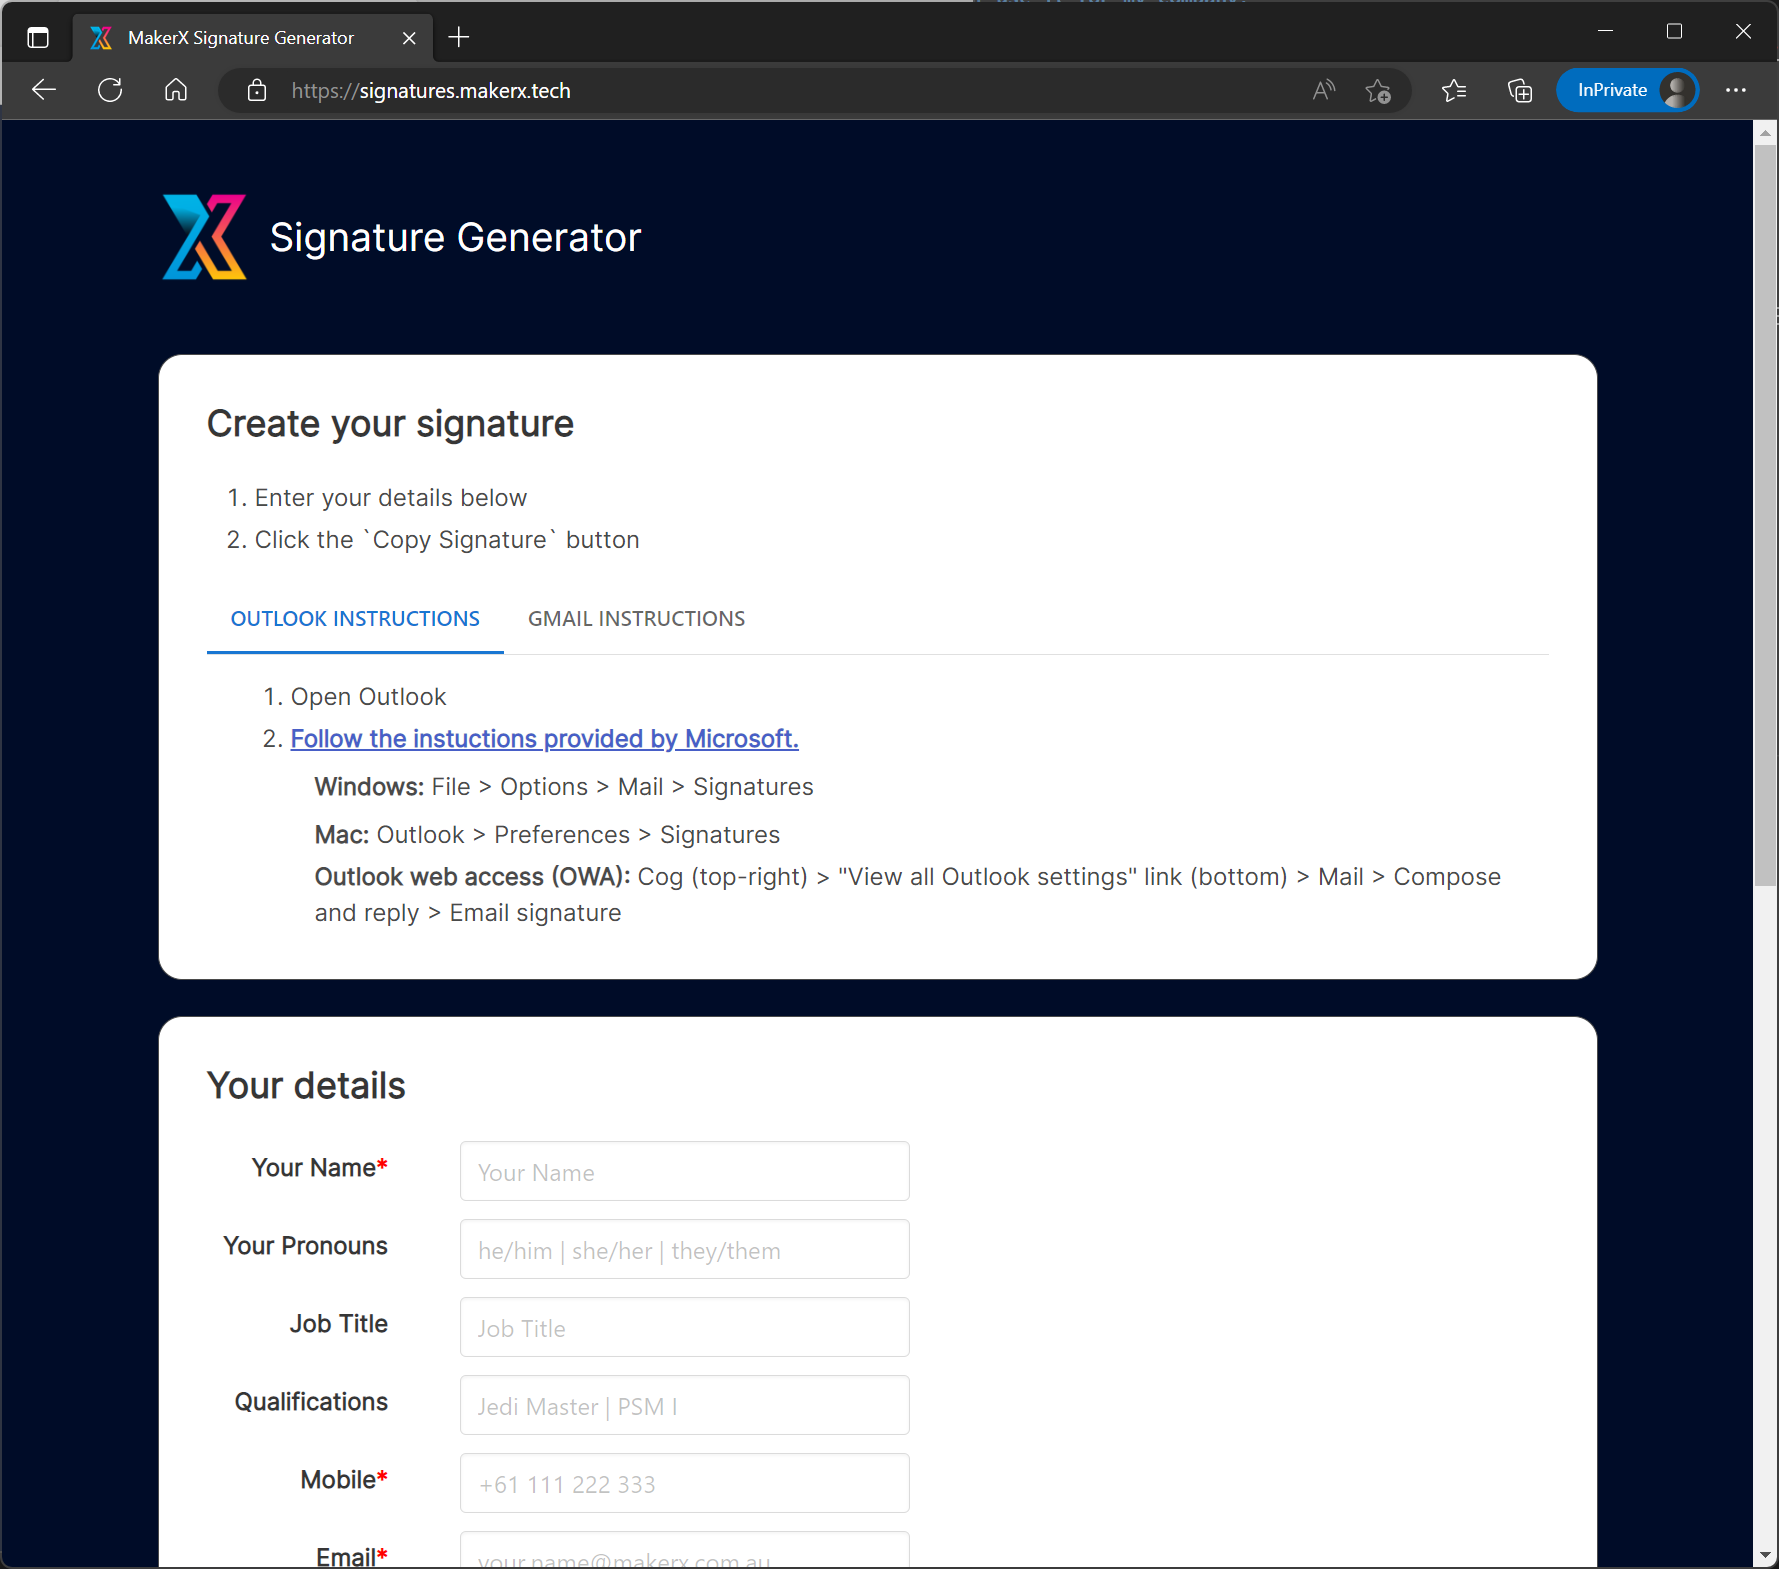
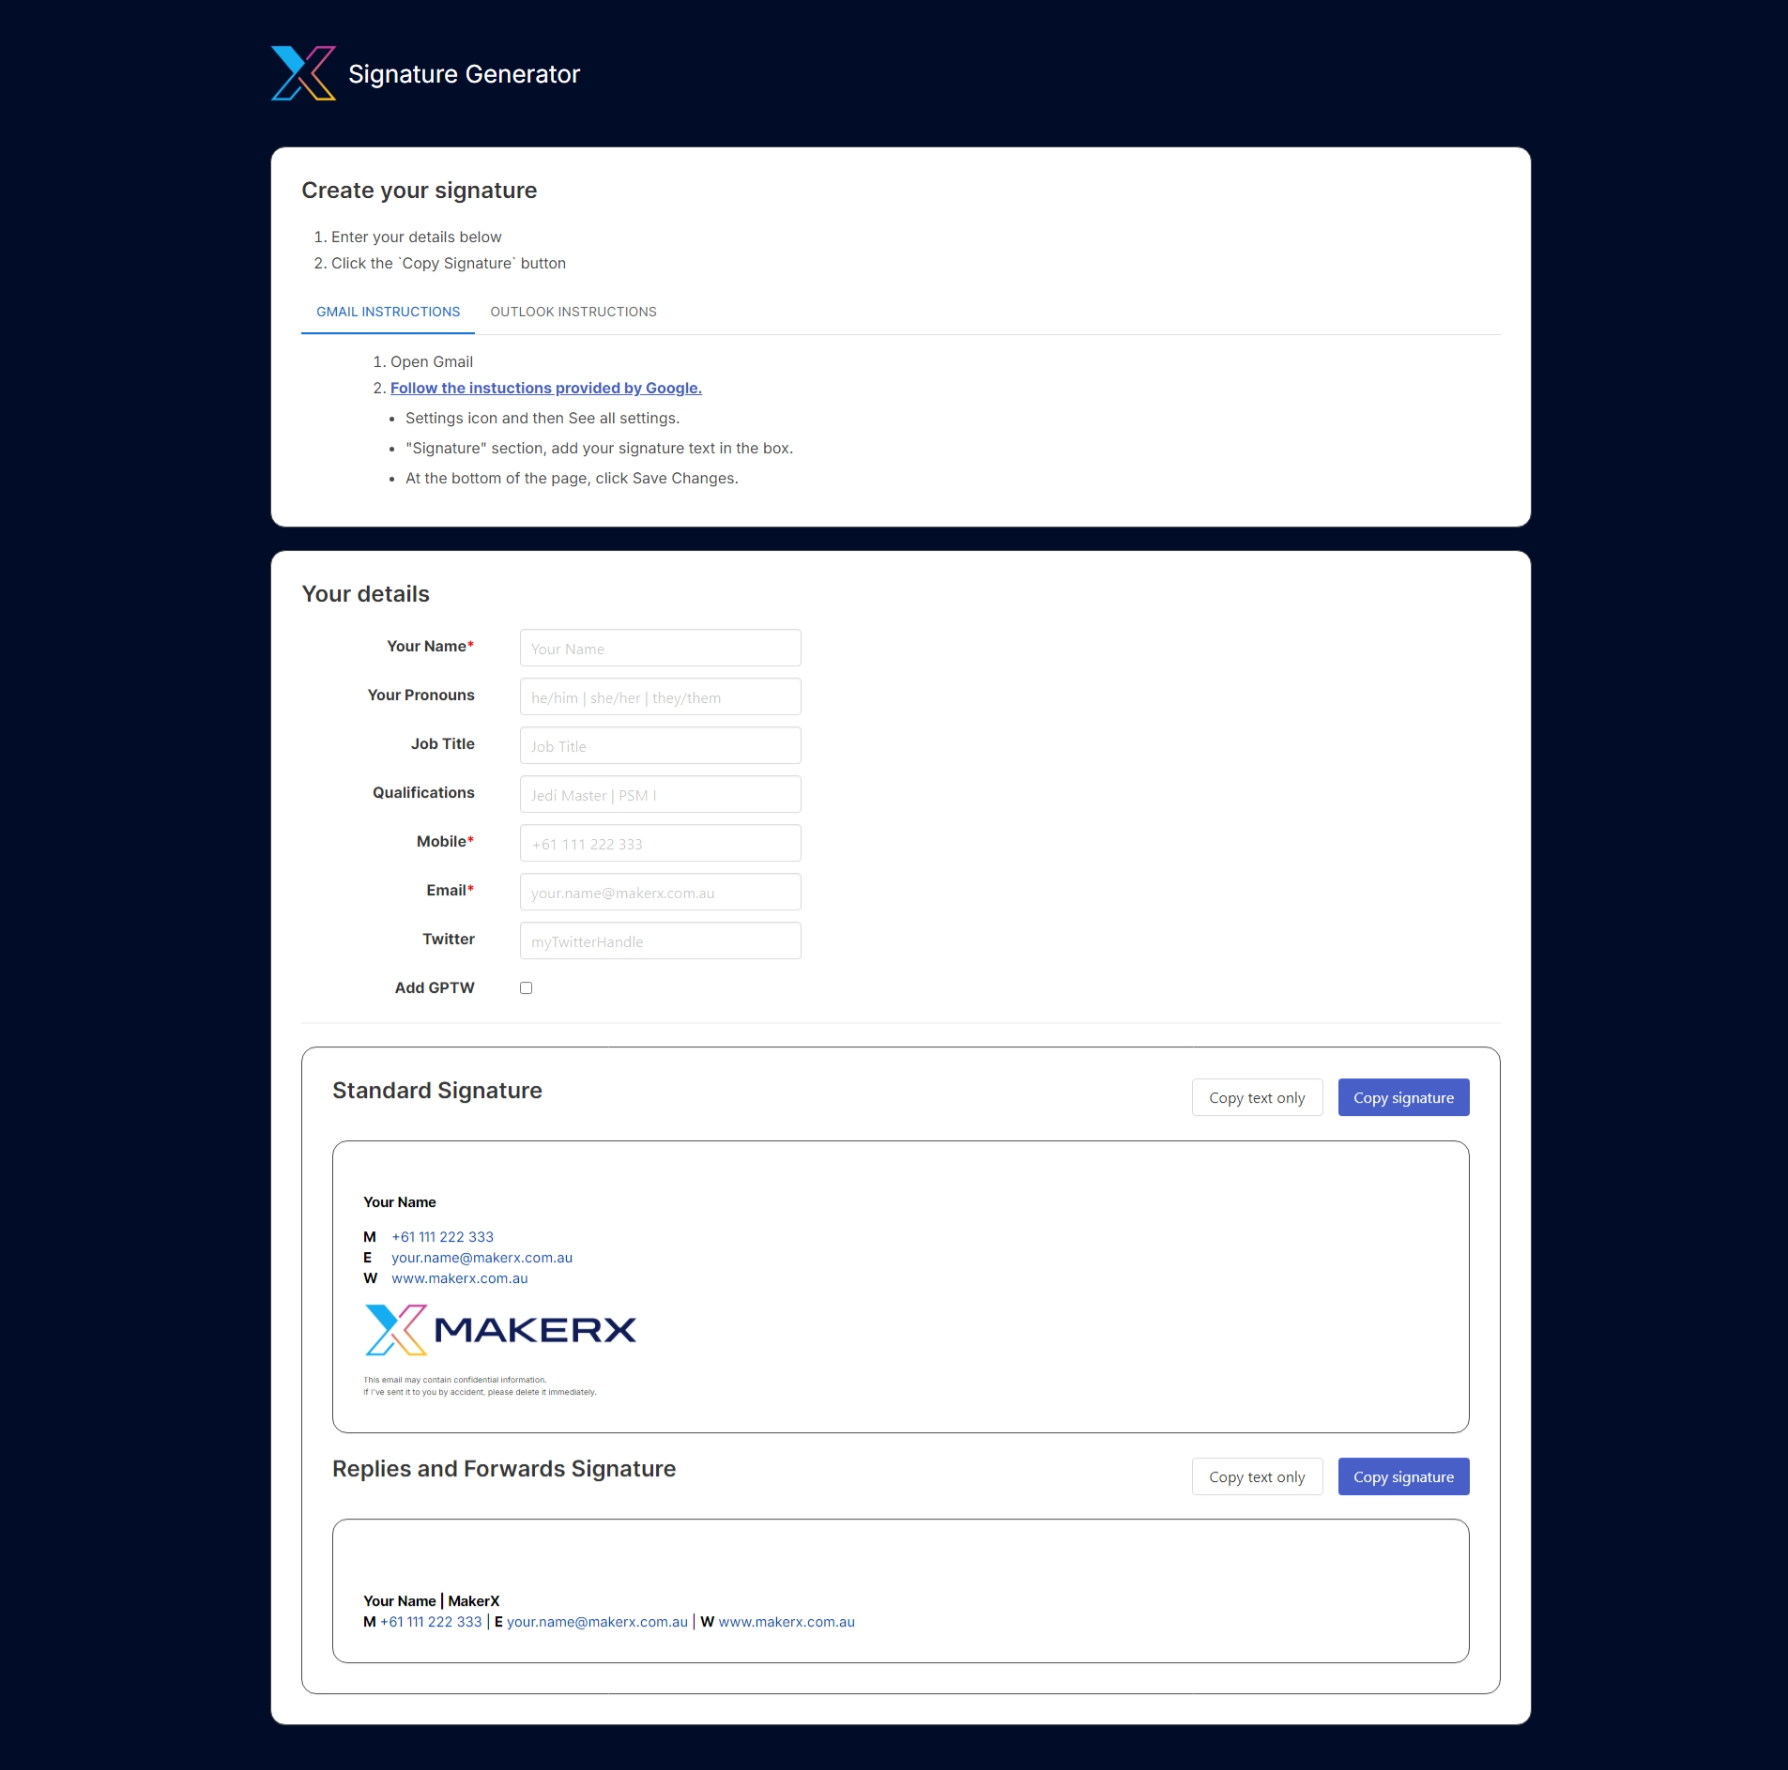
Update signature generator to new branding

diff --git a/src/Signature/Signature.js b/src/Signature/Signature.js
@@ -48,7 +48,6 @@ const Signature = (props) => {
         cellPadding="0"
         style={{
           color: 'black',
-          fontFamily: '"Segoe UI", Helvetica, Arial, sans-serif',
           fontSize: '11pt',
           width: '400px',
         }}
@@ -83,7 +82,6 @@ const Signature = (props) => {
                 cellPadding="0"
                 style={{
                   color: 'black',
-                  fontFamily: 'Arial, sans-serif',
                   fontSize: '11pt',
                   margin: 0,
                   padding: 0,
@@ -160,13 +158,7 @@ const Signature = (props) => {
                 'vertical-align': 'middle',
               }}
             >
-              <img
-                width="200"
-                height="30"
-                style={{ width: '200px', height: '30px', maxWidth: 'none' }}
-                src={brandLogo.link}
-                alt={brandLogo.alt}
-              />
+              <img src={brandLogo.link} alt={brandLogo.alt} />
             </td>
             {addGPTW ? (
               <td
@@ -199,7 +191,6 @@ const Signature = (props) => {
               <td
                 style={{
                   color: '#4a4a4a',
-                  fontFamily: '"Segoe UI", Helvetica, Arial, sans-serif',
                   fontSize: '6.5pt',
                   lineHeight: '1.5',
                 }}

diff --git a/src/constants/index.js b/src/constants/index.js
@@ -3,9 +3,9 @@ const constants = {
     brandName: 'MakerX',
     brandLink: 'https://makerx.com.au/',
     brandLinkName: 'www.makerx.com.au',
-    brandLinkColour: '#0E39FB',
+    brandLinkColour: '#003FB5',
     brandLogo: {
-      link: 'https://blog.makerx.com.au/content/images/2022/01/makerx_Full.png',
+      link: 'https://makerxsignatures.blob.core.windows.net/images/MakerX-Full-Logo-Colored.png',
       alt: 'MakerX',
     },
     brandGPTWLogo: {

diff --git a/public/index.html b/public/index.html
@@ -2,7 +2,7 @@
 <html lang="en">
   <head>
     <meta charset="utf-8" />
-    <link rel="icon" href="%PUBLIC_URL%/favicon.ico" />
+    <link rel="icon" href="%PUBLIC_URL%/favicon.svg" />
     <meta
       name="viewport"
       content="width=device-width, initial-scale=1, shrink-to-fit=no"

diff --git a/src/RepliesAndForwards/RepliesAndForwards.js b/src/RepliesAndForwards/RepliesAndForwards.js
@@ -18,7 +18,6 @@ const RepliesAndForwards = (props) => {
   } = props;
   const styleObj = {
     color: 'black',
-    fontFamily: '"Segoe UI", Helvetica, Arial, sans-serif',
     fontSize: '11pt',
   };
   const titleOptional = title ? <>&nbsp;|&nbsp;{title}</> : null;

diff --git a/src/Info/Info.js b/src/Info/Info.js
@@ -8,6 +8,7 @@ import { createTheme, ThemeProvider } from '@mui/material/styles';
 const theme = createTheme({
   typography: {
     fontFamily: [
+      '"Inter"',
       '-apple-system',
       'BlinkMacSystemFont',
       '"Segoe UI"',
